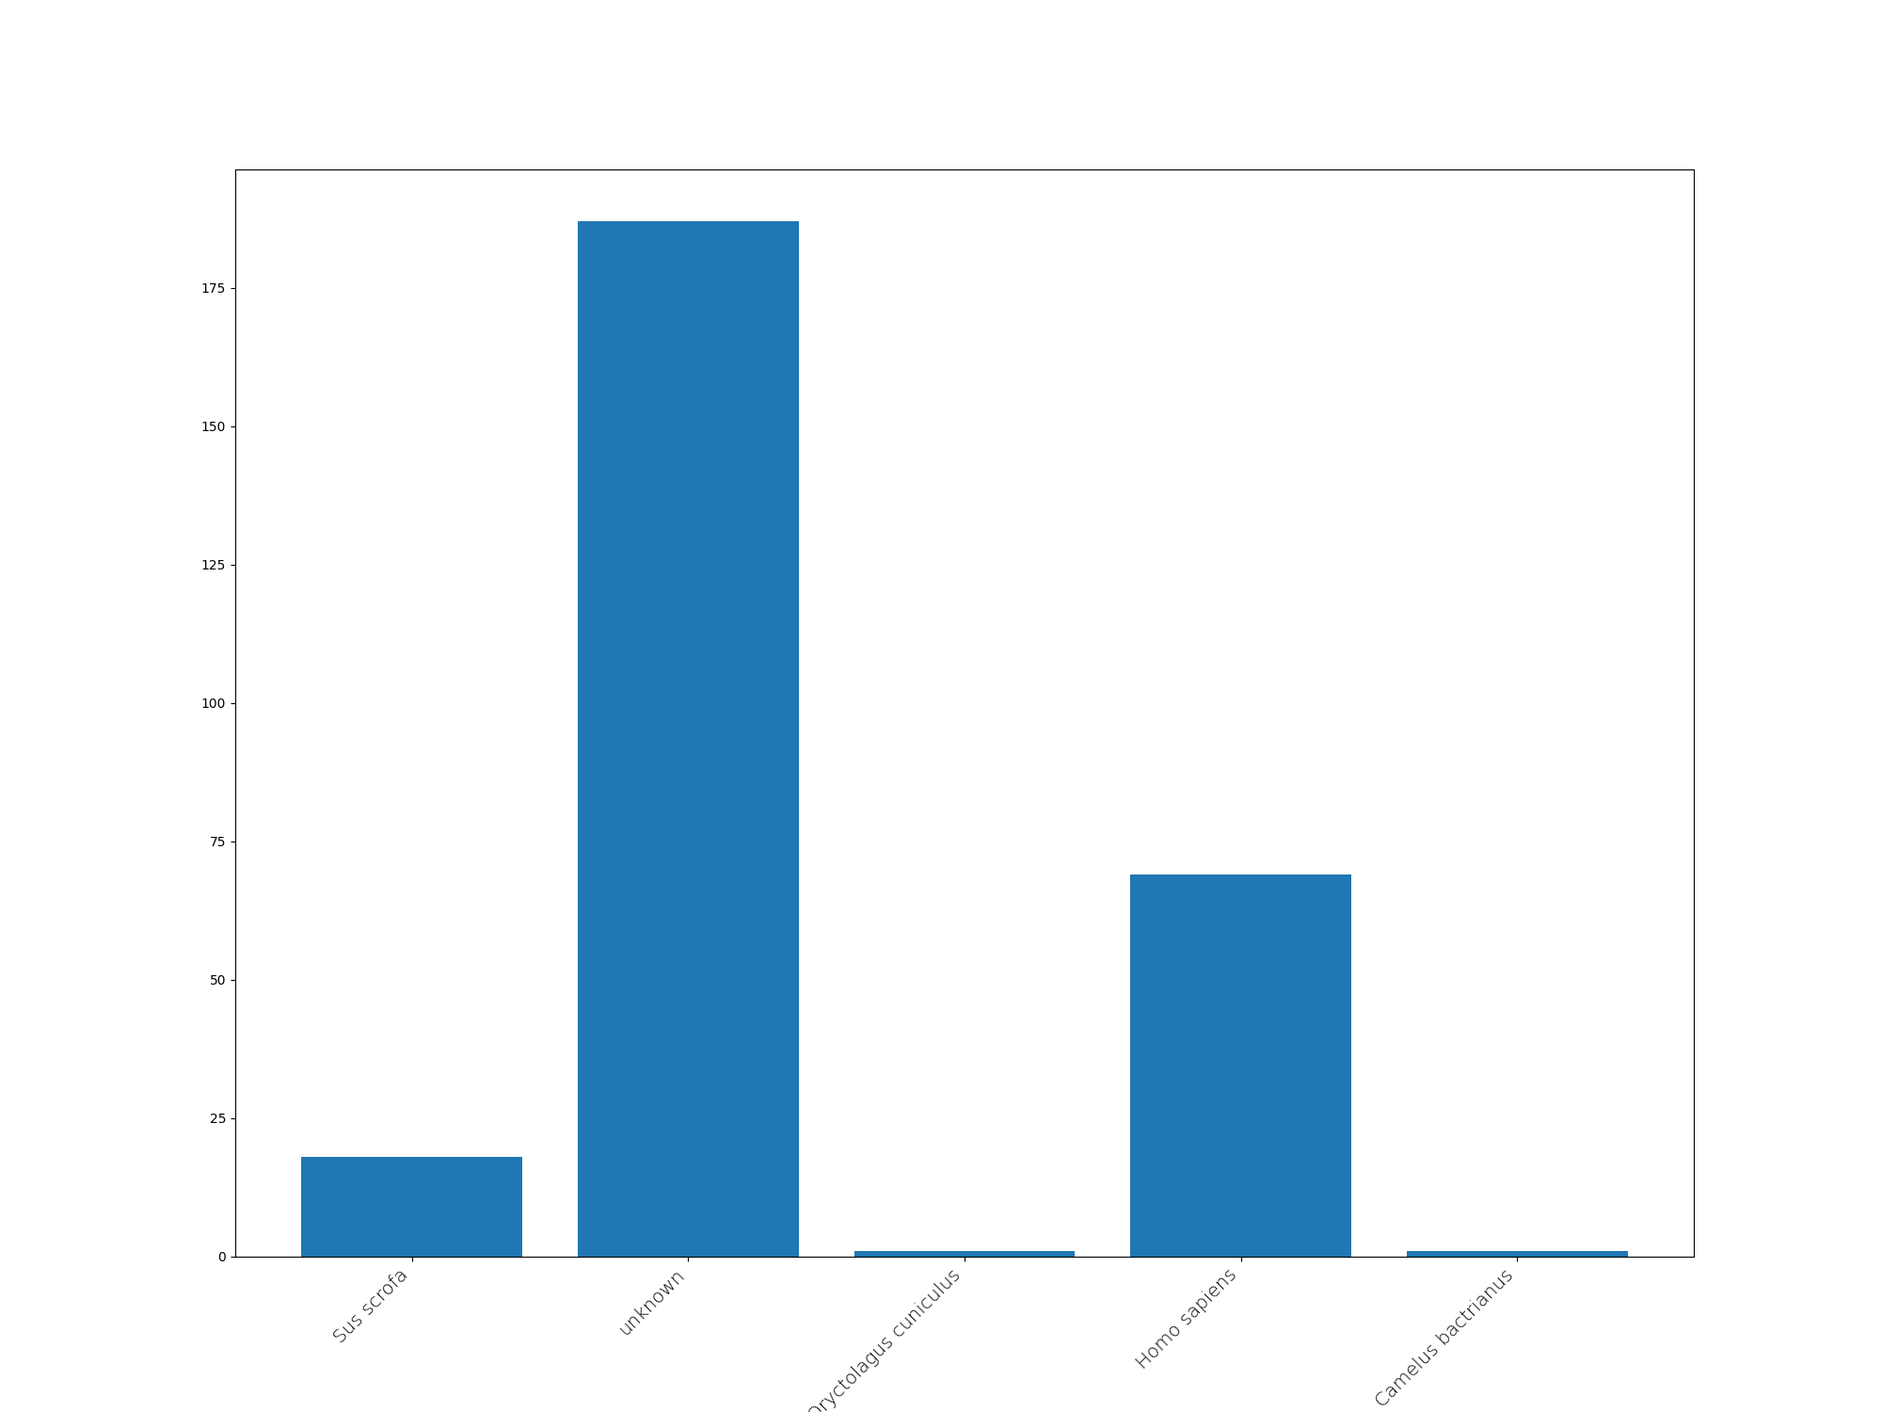
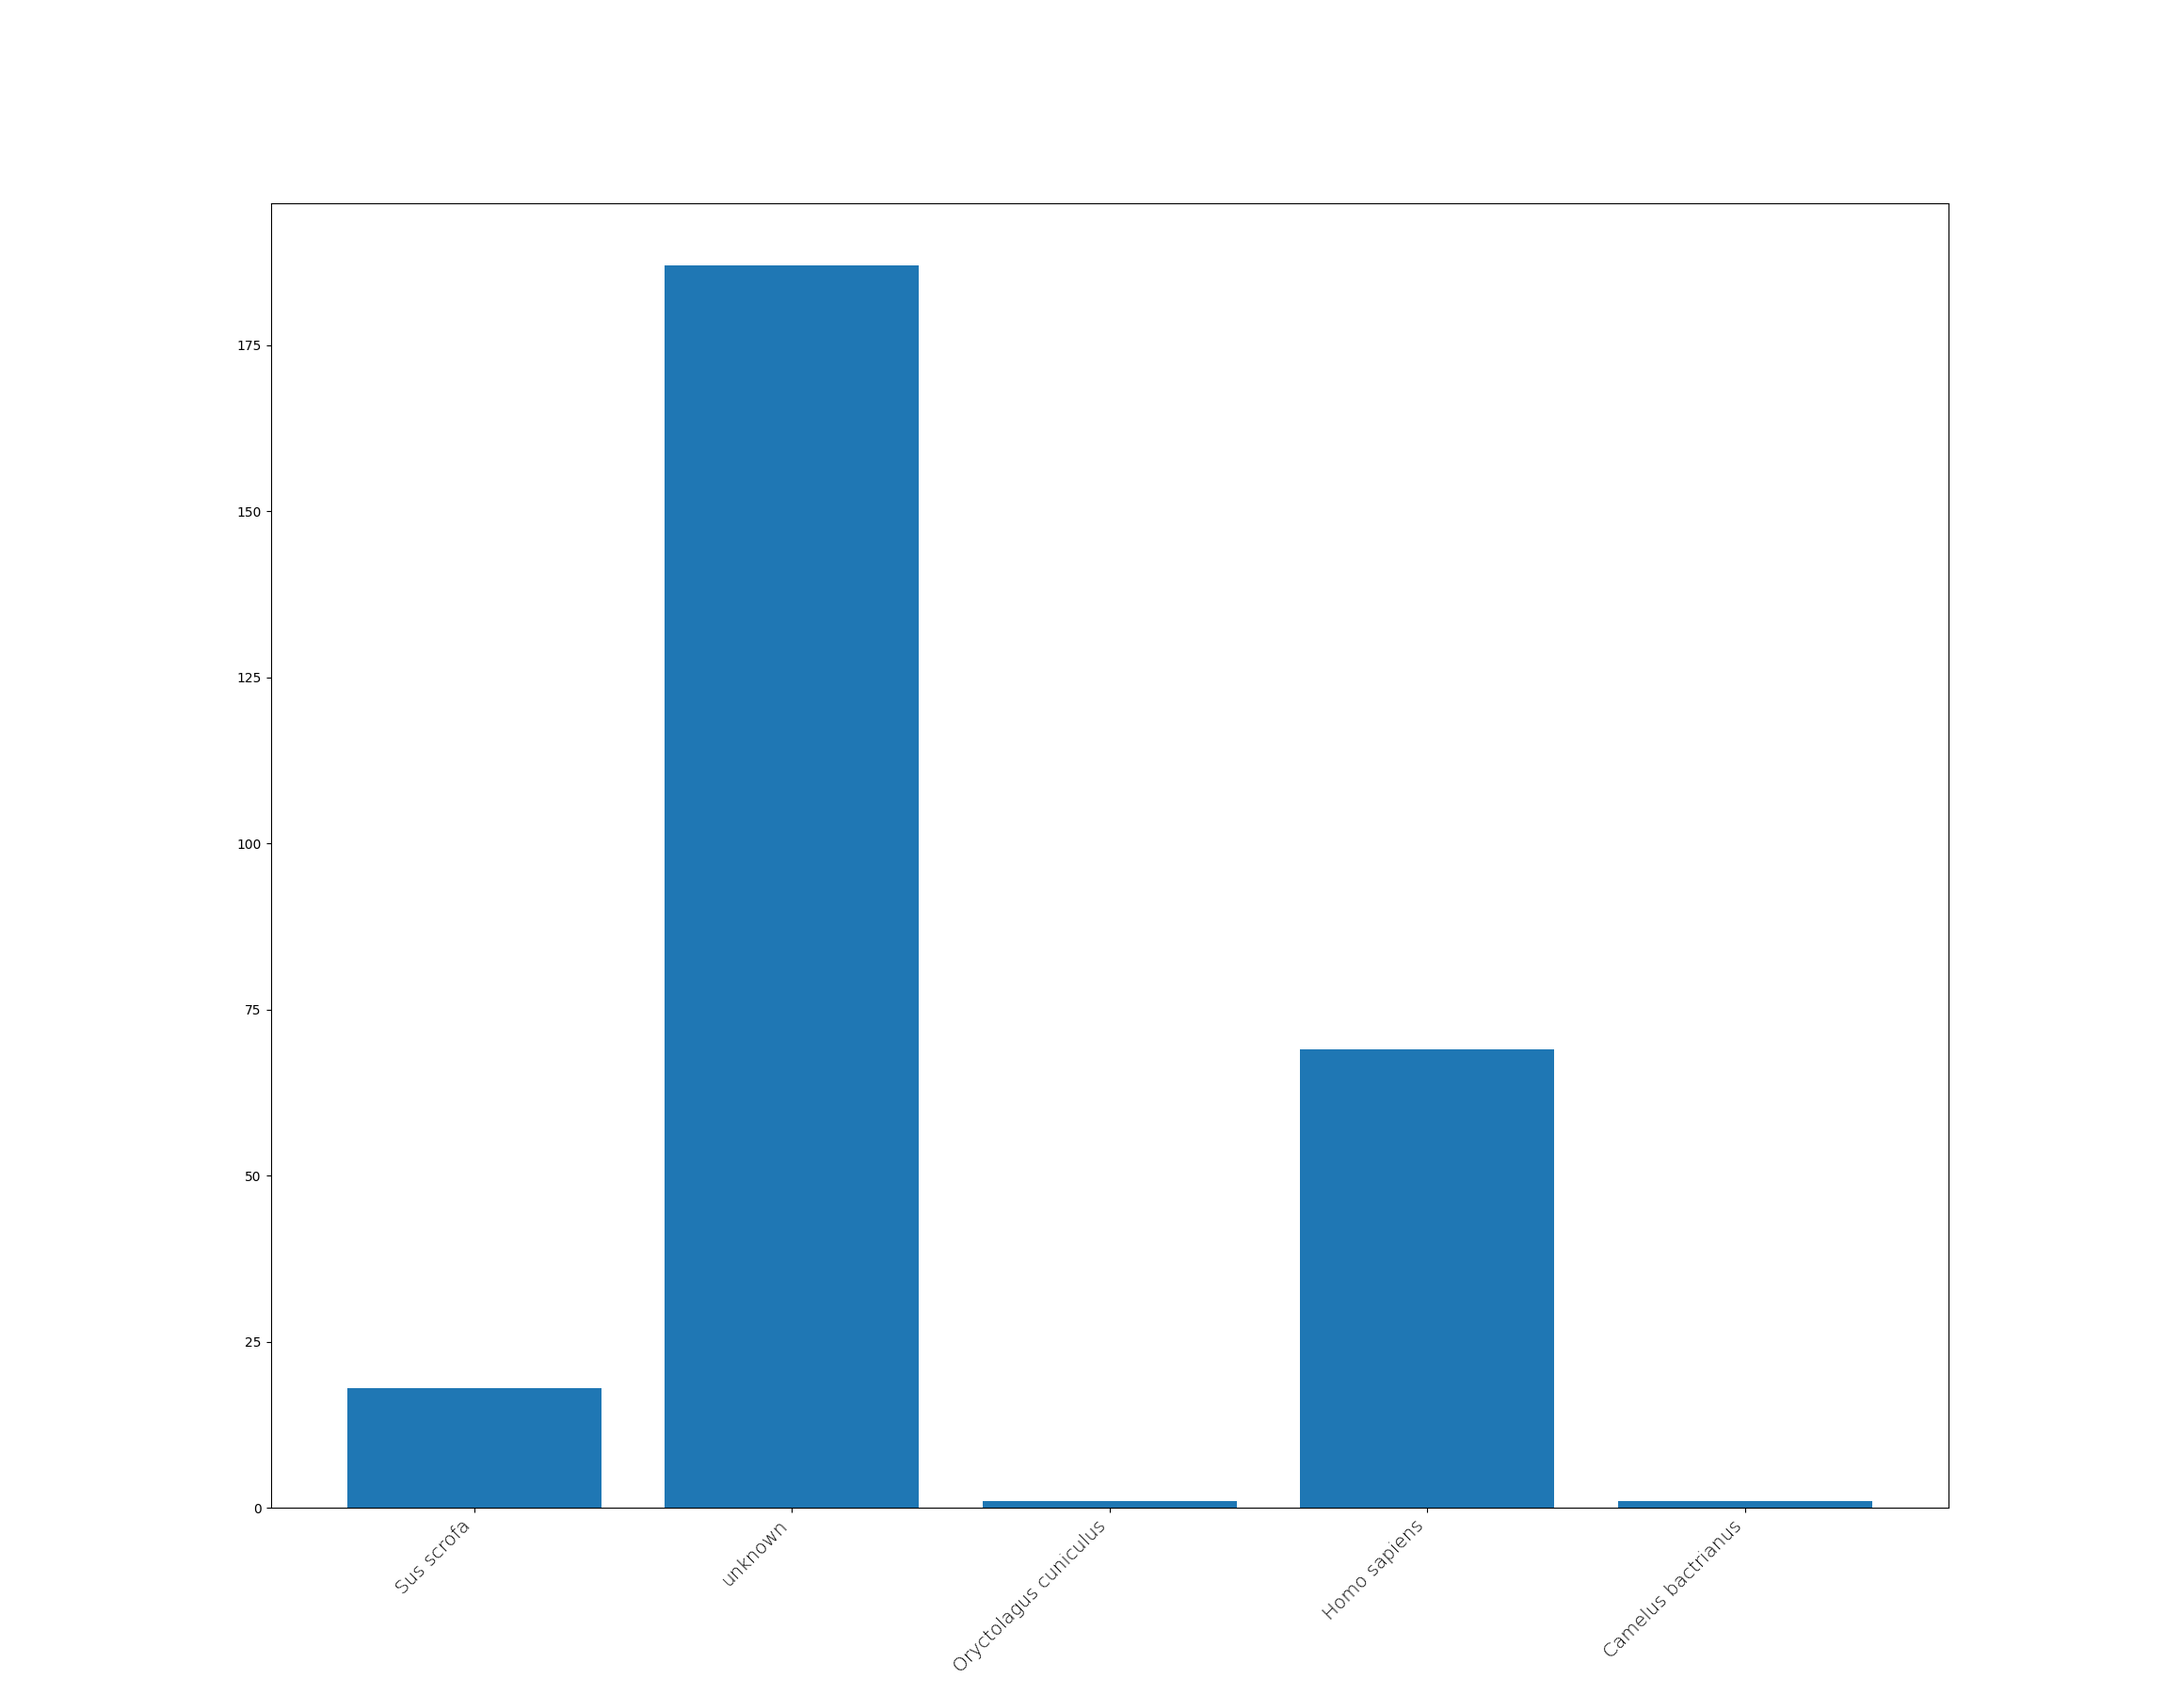
updated figure

diff --git a/bin/hep.py b/bin/hep.py
@@ -288,7 +288,7 @@ if __name__ == '__main__':
 	# Vis with numpy
         print(speciesCounter)
         import matplotlib.pyplot as plt
-        fig = plt.figure(1, [20, 15])
+        fig = plt.figure(1, [23, 18])
         plt.bar(speciesCounter.keys(), speciesCounter.values())
         plt.xticks(
             rotation=45, 
